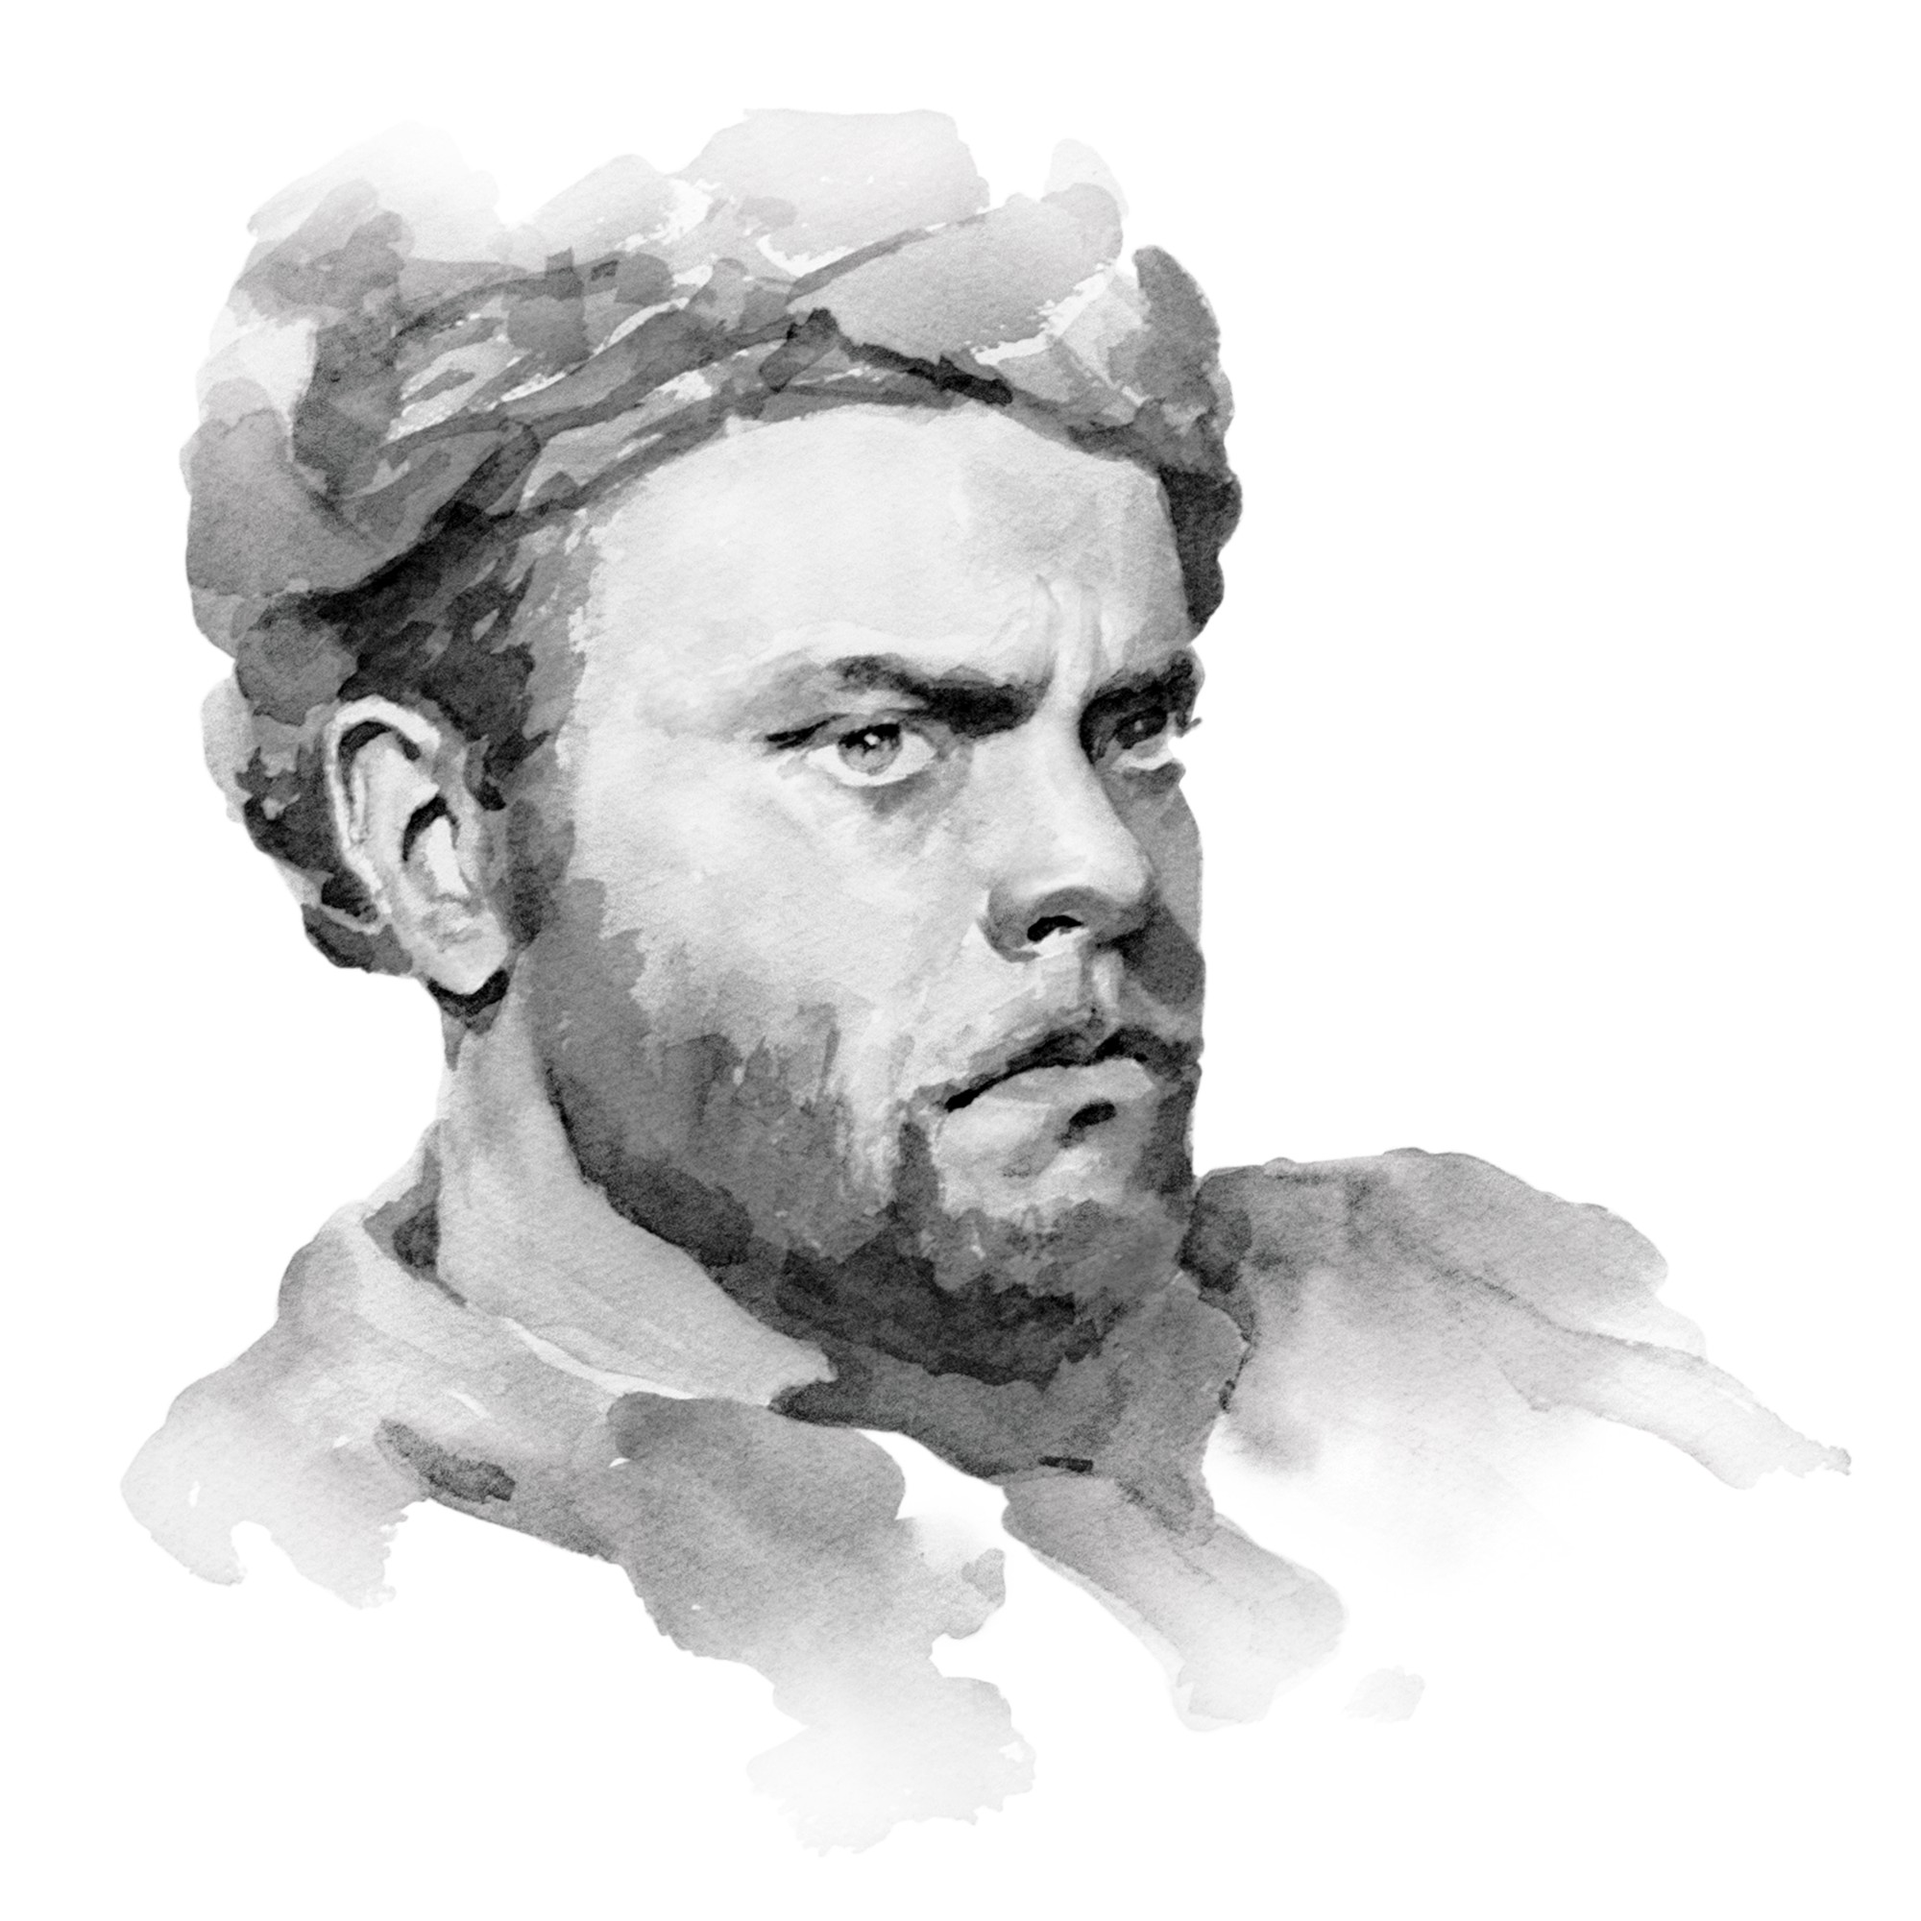
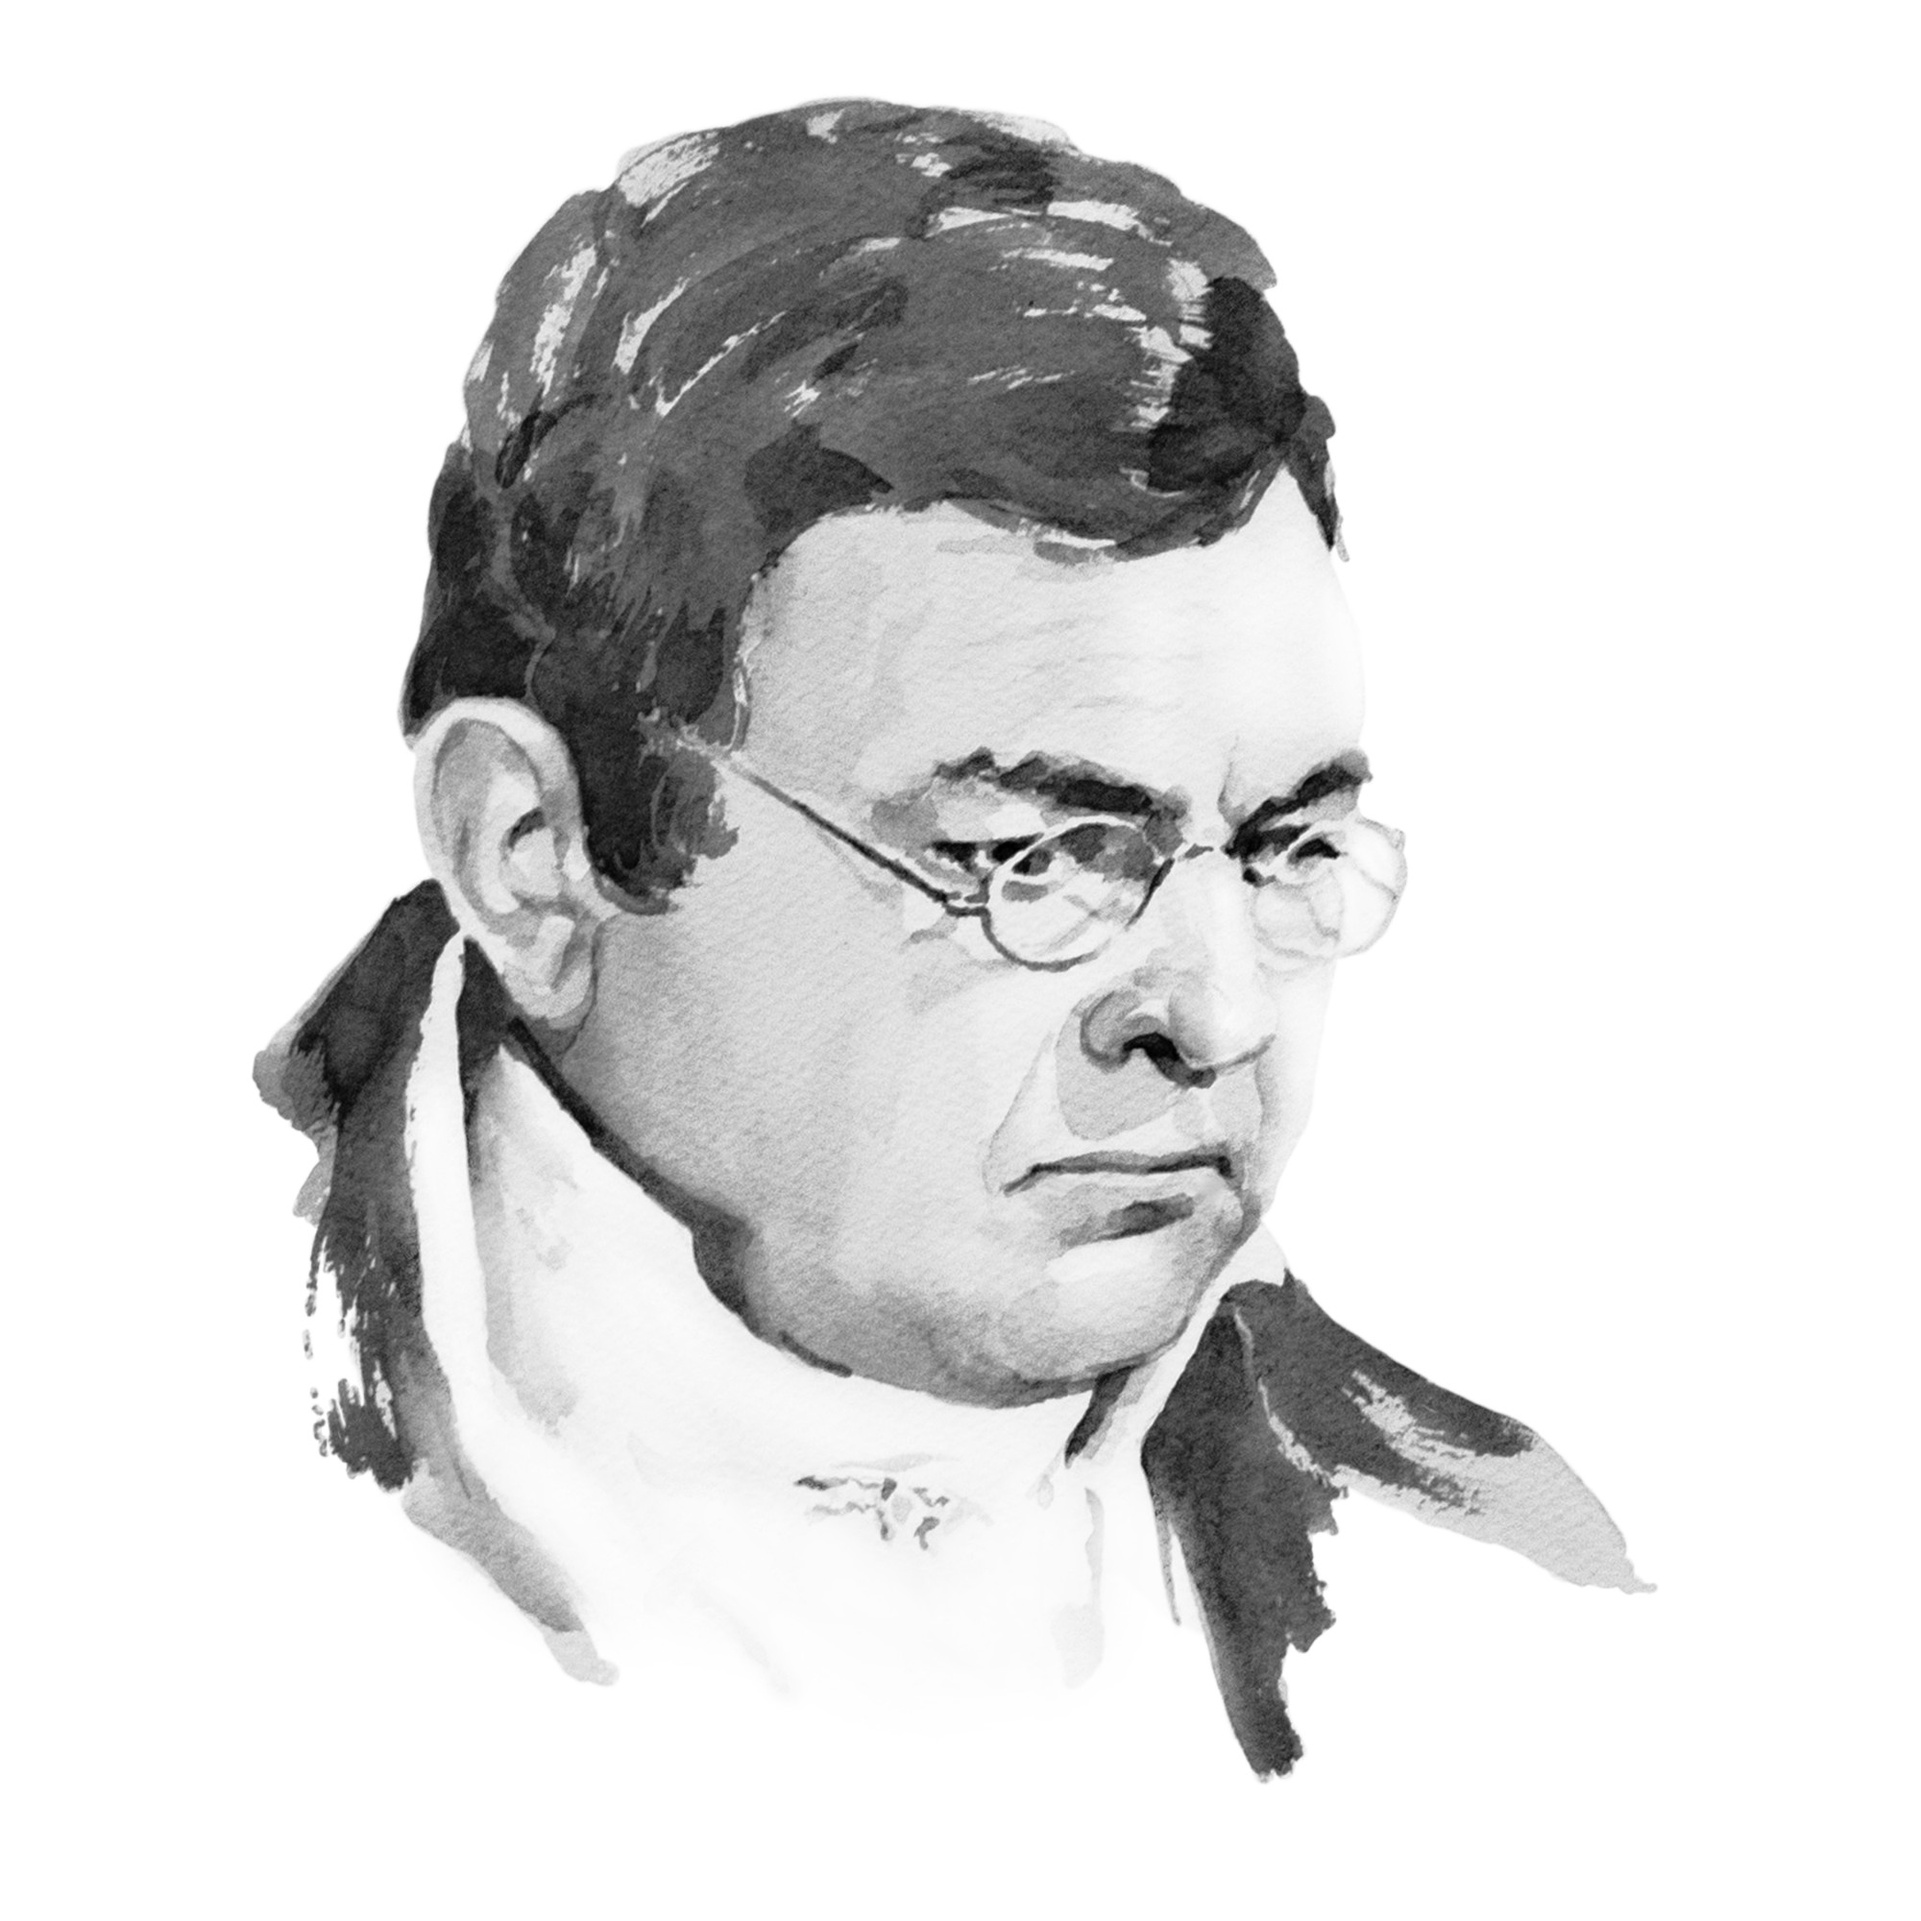
Revisión visual formación: circulitos, opción A, bloc notas, retratos
- Quitar circulitos de progreso por curso (solo queda anillo general)
- Eliminar sección Opción A (esculturas) y banner Opción B, solo cuadros
- BlocDeNotas: quitar contador de notas del selector
- Intercambiar retratos COL/FLE (estaban cruzados)
- Añadir 6 retratos acuarela para ejercicio define 2 (m1-06):
  Carácter, Prudencia, Fortaleza, Dominio de sí, Justicia, Magnanimidad

diff --git a/src/formacion/Formacion.jsx b/src/formacion/Formacion.jsx
@@ -376,23 +376,12 @@ function Listado({ cursos: todosLosCursos, progreso, userId }) {
             )}
           </div>
         </div>
-        <div style={{ display: 'flex', flexWrap: 'wrap', gap: 14, justifyContent: 'center' }}>
-          {[{ nombre: 'Curso 1', pct: m1VideosPct }]
-            .concat(cursos.map(c => ({ nombre: `Curso ${c.numero}`, pct: progresoCurso(c, progreso.vistas).porcentaje })))
-            .map((cp, i) => (
-              <div key={i} style={{ display: 'flex', flexDirection: 'column', alignItems: 'center', gap: 4, minWidth: 56 }}>
-                <Anillo valor={cp.pct} tam={48} />
-                <span style={{ fontFamily: FONT_BODY, fontSize: 11, color: MUTED, textAlign: 'center', lineHeight: 1.25 }}>{cp.nombre}</span>
-              </div>
-            ))}
-        </div>
       </section>
 
       <div className="vl-ancho">
         <CuadernoPersonal userId={userId} pasos={moduloData.pasos} />
       </div>
 
-      <div className="vl-ancho" style={{ background: '#b8c8d9', padding: '10px 16px', borderRadius: 6, fontFamily: FONT_SLAB, fontSize: 18, fontWeight: 700, color: NAVY }}>Opción B — Cuadros</div>
       <div className="vl-ancho" style={{ display: 'flex', gap: 16, alignItems: 'stretch' }}>
         <CtaFormacion prog={m1ProgVid} />
         <Modulo1Card userId={userId} m1Prog={m1Prog} portadas={PORTADAS_B} brillo posiciones={PORTADA_POS_B} escalas={PORTADA_ESCALA_B} />
@@ -402,15 +391,6 @@ function Listado({ cursos: todosLosCursos, progreso, userId }) {
                    portadas={PORTADAS_B} brillo posiciones={PORTADA_POS_B} escalas={PORTADA_ESCALA_B} noBrillo={PORTADA_NOBRILLO_B} brilloMap={PORTADA_BRILLO_B} />
       ))}
 
-      <div className="vl-ancho" style={{ background: '#e8d9b8', padding: '10px 16px', borderRadius: 6, fontFamily: FONT_SLAB, fontSize: 18, fontWeight: 700, color: NAVY }}>Opción A — Esculturas</div>
-      <div className="vl-ancho" style={{ display: 'flex', gap: 16, alignItems: 'stretch' }}>
-        <CtaFormacion prog={m1ProgVid} />
-        <Modulo1Card userId={userId} m1Prog={m1Prog} />
-      </div>
-      {cursos.map((c) => (
-        <CursoCard key={`a-${c.id}`} curso={c} vistas={progreso.vistas}
-                   portadas={PORTADAS_A} />
-      ))}
     </div>
   );
 }

diff --git a/src/formacion/Actividad.jsx b/src/formacion/Actividad.jsx
@@ -14,6 +14,12 @@ import retratoMEL from './assets/retrato-MEL.jpg';
 import retratoSAN from './assets/retrato-SAN.jpg';
 import retratoFLE from './assets/retrato-FLE.jpg';
 import retratoTEMP from './assets/retrato-TEMP.jpg';
+import retratoCaracter from './assets/retrato-caracter.jpg';
+import retratoPrudencia from './assets/retrato-prudencia.jpg';
+import retratoFortaleza from './assets/retrato-fortaleza.jpg';
+import retratoDominio from './assets/retrato-dominio.jpg';
+import retratoJusticia from './assets/retrato-justicia.jpg';
+import retratoMagnanimidad from './assets/retrato-magnanimidad.jpg';
 import { PREGUNTAS, TEMPS, NO_SE } from '../lib/personas';
 import CHARACTER_TEST from '../data/character-test.json';
 import CHARACTER_SUPPORT from '../data/character-support-text.json';
@@ -46,7 +52,7 @@ const IconoLupa = () => (
 );
 const TEMP_SUBTITULO = { COL: 'la acción', MEL: 'las ideas', SAN: 'las personas', FLE: 'la paz' };
 const RETRATO_TEMP = { COL: retratoCOL, MEL: retratoMEL, SAN: retratoSAN, FLE: retratoFLE };
-const CONCEPTO_A_RETRATO = { 'Temperamento': retratoTEMP, 'Temperamento colérico': retratoCOL, 'Temperamento melancólico': retratoMEL, 'Temperamento sanguíneo': retratoSAN, 'Temperamento flemático': retratoFLE };
+const CONCEPTO_A_RETRATO = { 'Temperamento': retratoTEMP, 'Temperamento colérico': retratoCOL, 'Temperamento melancólico': retratoMEL, 'Temperamento sanguíneo': retratoSAN, 'Temperamento flemático': retratoFLE, 'Carácter': retratoCaracter, 'Prudencia': retratoPrudencia, 'Fortaleza': retratoFortaleza, 'Dominio de sí': retratoDominio, 'Justicia': retratoJusticia, 'Magnanimidad': retratoMagnanimidad };
 
 const TEMP_NOMBRE = { COL: 'Colérico', MEL: 'Melancólico', SAN: 'Sanguíneo', FLE: 'Flemático' };
 

diff --git a/src/formacion/BlocDeNotas.jsx b/src/formacion/BlocDeNotas.jsx
@@ -135,11 +135,9 @@ export function BlocDeNotas({ videos, completados, pasoActualId, notas, onAgrega
             }}
           >
             {desbloqueadas.map((v, i) => {
-              const numNotas = (notas[v.id] ?? []).length;
-              const etiqueta = numNotas === 0 ? '' : ` · ${numNotas} nota${numNotas === 1 ? '' : 's'}`;
               return (
                 <option key={v.id} value={v.id}>
-                  Módulo {i} — {v.titulo}{etiqueta}
+                  Módulo {i} — {v.titulo}
                 </option>
               );
             })}
